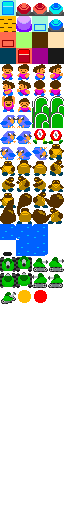
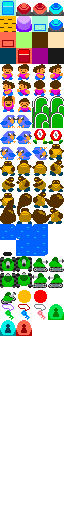
Key and lock sprites

Changed region(s): [[0.0, 0.5938, 0.5, 0.6562], [0.75, 0.5938, 1.0, 0.625], [0.5312, 0.5938, 0.7188, 0.625]]

diff --git a/src/player.js b/src/player.js
@@ -18,10 +18,10 @@ var Player = function(game, x, y, map, foreground) {
   this.shooting = false;
   this.dying = false;
 
-  //this.currentForm = 'weak';
+  this.currentForm = 'weak';
   //this.currentForm = 'bird';
   //this.currentForm = 'rock';
-  this.currentForm = 'tank';
+  //this.currentForm = 'tank';
 
   this.viewSprite = this.game.add.sprite(0, 0, 'blocks', 14);
   this.viewSprite.anchor.set(0.5, 1);

diff --git a/src/items.js b/src/items.js
@@ -16,7 +16,7 @@ var Lock = function(game, x, y, color) {
   this.body.setSize(16, 16);
   this.anchor.set(0.5);
   this.body.immovable = true;
-  this.frame = Constants.LockColors[color];
+  this.frame = Constants.LockColors[color] + 3;
 
   this.color = color;
 };

diff --git a/src/constants.js b/src/constants.js
@@ -34,8 +34,8 @@ var Constants = {
   ],
 
   LockColors: {
-    red: 1,
-    blue: 7,
-    green: 2,
+    red: 78,
+    blue: 77,
+    green: 76,
   }
 };

diff --git a/index.html b/index.html
@@ -13,6 +13,8 @@
   <style>
     body {
       margin: 0px;
+
+      background-color: gray;
     }
   </style>
 
